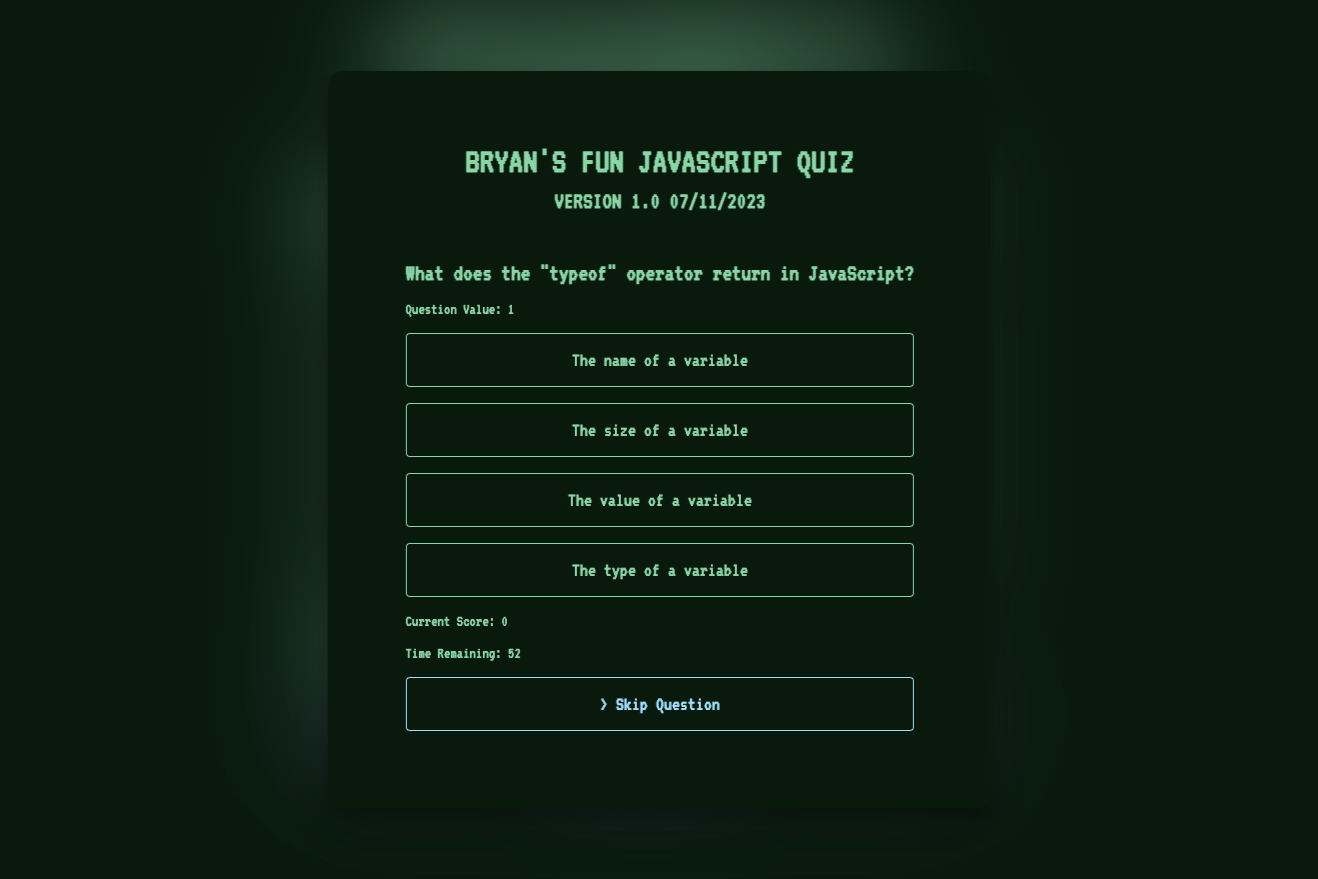
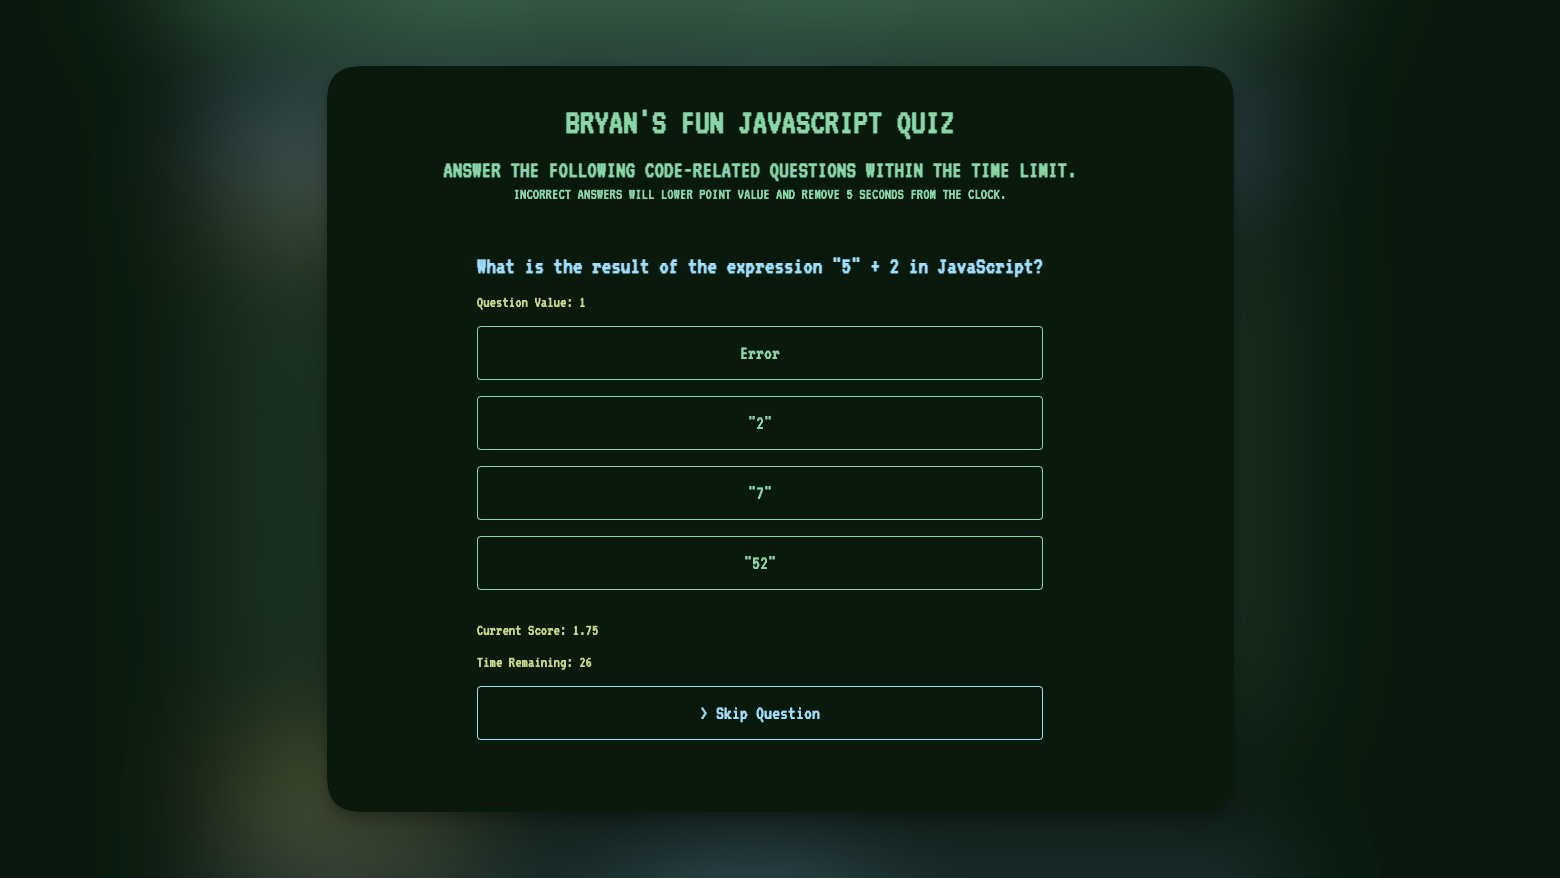
updated styles and readme image, added quiz instructions

diff --git a/index.html b/index.html
@@ -16,7 +16,8 @@
   <body>
       <header>
         <h1>BRYAN'S FUN JAVASCRIPT QUIZ</h1>
-        <h2>VERSION 1.0 07/11/2023</h2> 
+        <h2>ANSWER THE FOLLOWING CODE-RELATED QUESTIONS WITHIN THE TIME LIMIT.</h2>
+        <p>INCORRECT ANSWERS WILL LOWER POINT VALUE AND REMOVE 5 SECONDS FROM THE CLOCK.</p> 
     </header>
     <!-- The Main Quiz Form -->
       <article id = "quiz-form" class = "center-content">
@@ -24,6 +25,7 @@
             <p id = possible-points></p>
             <!-- The list of available choices -->
               <section id = "choice-list"></section>
+              <section id = "timer-score"></section>
             <section id = "score"></section>
             <section id = "timer"></section>
             <button id="next-button" class="primary-button">> Skip Question</button>

diff --git a/assets/css/style.css b/assets/css/style.css
@@ -3,6 +3,7 @@
  --green: #86D7A5;
  --dark-green: #081A0D;
  --black: #06140A;
+ --status: #CCD786;
  --computer-font: 'VT323', monospace;
 }
 
@@ -36,7 +37,7 @@ header {
     align-items: center;
     line-height:0;
     margin-bottom:60px;
-    gap:16px;
+    gap:24px;
 }
 
 
@@ -91,6 +92,13 @@ button:active {
     align-items: self-start;
     gap:8px;
     padding-bottom:24px;
+}
+#currentQuestionTitle {
+    color:var(--blue);
+}
+
+#score, #timer, #possible-points, #answer-result {
+    color:var(--status);
 }
 
 
